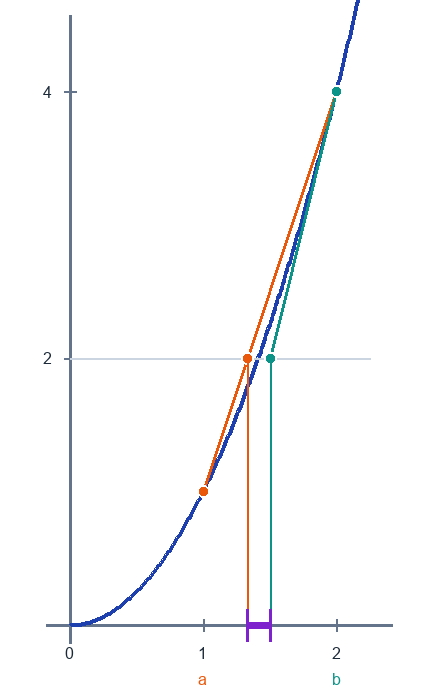
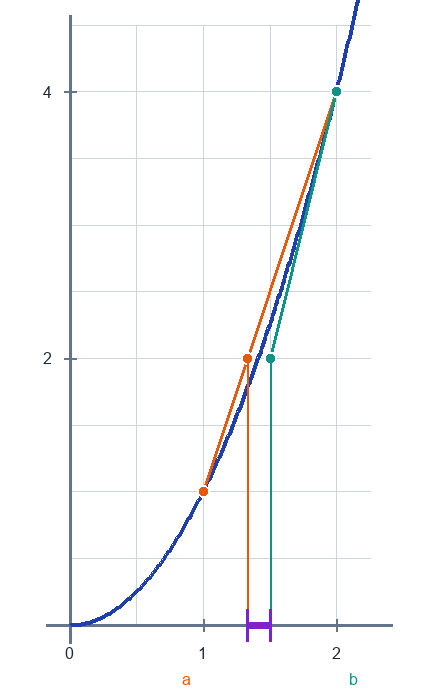
add rational grid to secant tangent animation

diff --git a/scripts/generate_sqrt_secant_tangent_animation.py b/scripts/generate_sqrt_secant_tangent_animation.py
@@ -70,11 +70,11 @@ def next_bracket(a: Fraction, b: Fraction) -> tuple[Fraction, Fraction]:
 
 
 def stages() -> list[tuple[Fraction, Fraction]]:
-    """Return two visibly distinct rational enclosure states."""
+    """Return three exact rational enclosure states."""
 
     a, b = Fraction(1), Fraction(2)
     result = []
-    for _ in range(2):
+    for _ in range(3):
         result.append((a, b))
         a, b = next_bracket(a, b)
     return result
@@ -90,6 +90,15 @@ def frame(a: Fraction, b: Fraction) -> Image.Image:
     a_next, b_next = next_bracket(a, b)
     image = Image.new("RGBA", (WIDTH, HEIGHT), WHITE)
     draw = ImageDraw.Draw(image)
+
+    # Half-unit rational grid cells are square because `x_screen` and
+    # `y_screen` use the same pixels-per-unit scale.
+    for half in range(1, 5):
+        x = x_screen(Fraction(half, 2))
+        draw.line((x, TOP, x, BASELINE), fill=GRID, width=1)
+    for half in range(1, 10):
+        y = y_screen(Fraction(half, 2))
+        draw.line((LEFT, y, RIGHT, y), fill=GRID, width=1)
 
     draw.line((LEFT - 24, BASELINE, RIGHT + 22, BASELINE), fill=AXIS, width=3)
     draw.line((LEFT, BASELINE + 18, LEFT, TOP - 10), fill=AXIS, width=3)
@@ -111,7 +120,6 @@ def frame(a: Fraction, b: Fraction) -> Image.Image:
     draw.line(points, fill=CURVE, width=4, joint="curve")
 
     target_y = y_screen(TARGET)
-    draw.line((LEFT, target_y, RIGHT, target_y), fill=GRID, width=2)
 
     ax, ay = x_screen(a), y_screen(a * a)
     bx, by = x_screen(b), y_screen(b * b)
@@ -133,8 +141,9 @@ def frame(a: Fraction, b: Fraction) -> Image.Image:
     draw.line((an_x, target_y, an_x, BASELINE - 17), fill=SECANT, width=2)
     draw.line((bn_x, target_y, bn_x, BASELINE - 17), fill=TANGENT, width=2)
 
-    draw.text((ax, BASELINE + 54), "a", font=SMALL, fill=SECANT, anchor="mm")
-    draw.text((bx, BASELINE + 54), "b", font=SMALL, fill=TANGENT, anchor="mm")
+    # Keep the labels distinct even once the rational endpoints are sub-pixel close.
+    draw.text((ax - 12, BASELINE + 54), "a", font=SMALL, fill=SECANT, anchor="rm")
+    draw.text((bx + 12, BASELINE + 54), "b", font=SMALL, fill=TANGENT, anchor="lm")
     return image
 
 
@@ -148,7 +157,7 @@ def main() -> None:
         format="GIF",
         save_all=True,
         append_images=frames[1:],
-        duration=[1500, 1900],
+        duration=[1500, 1250, 1900],
         loop=0,
         disposal=2,
         optimize=True,
